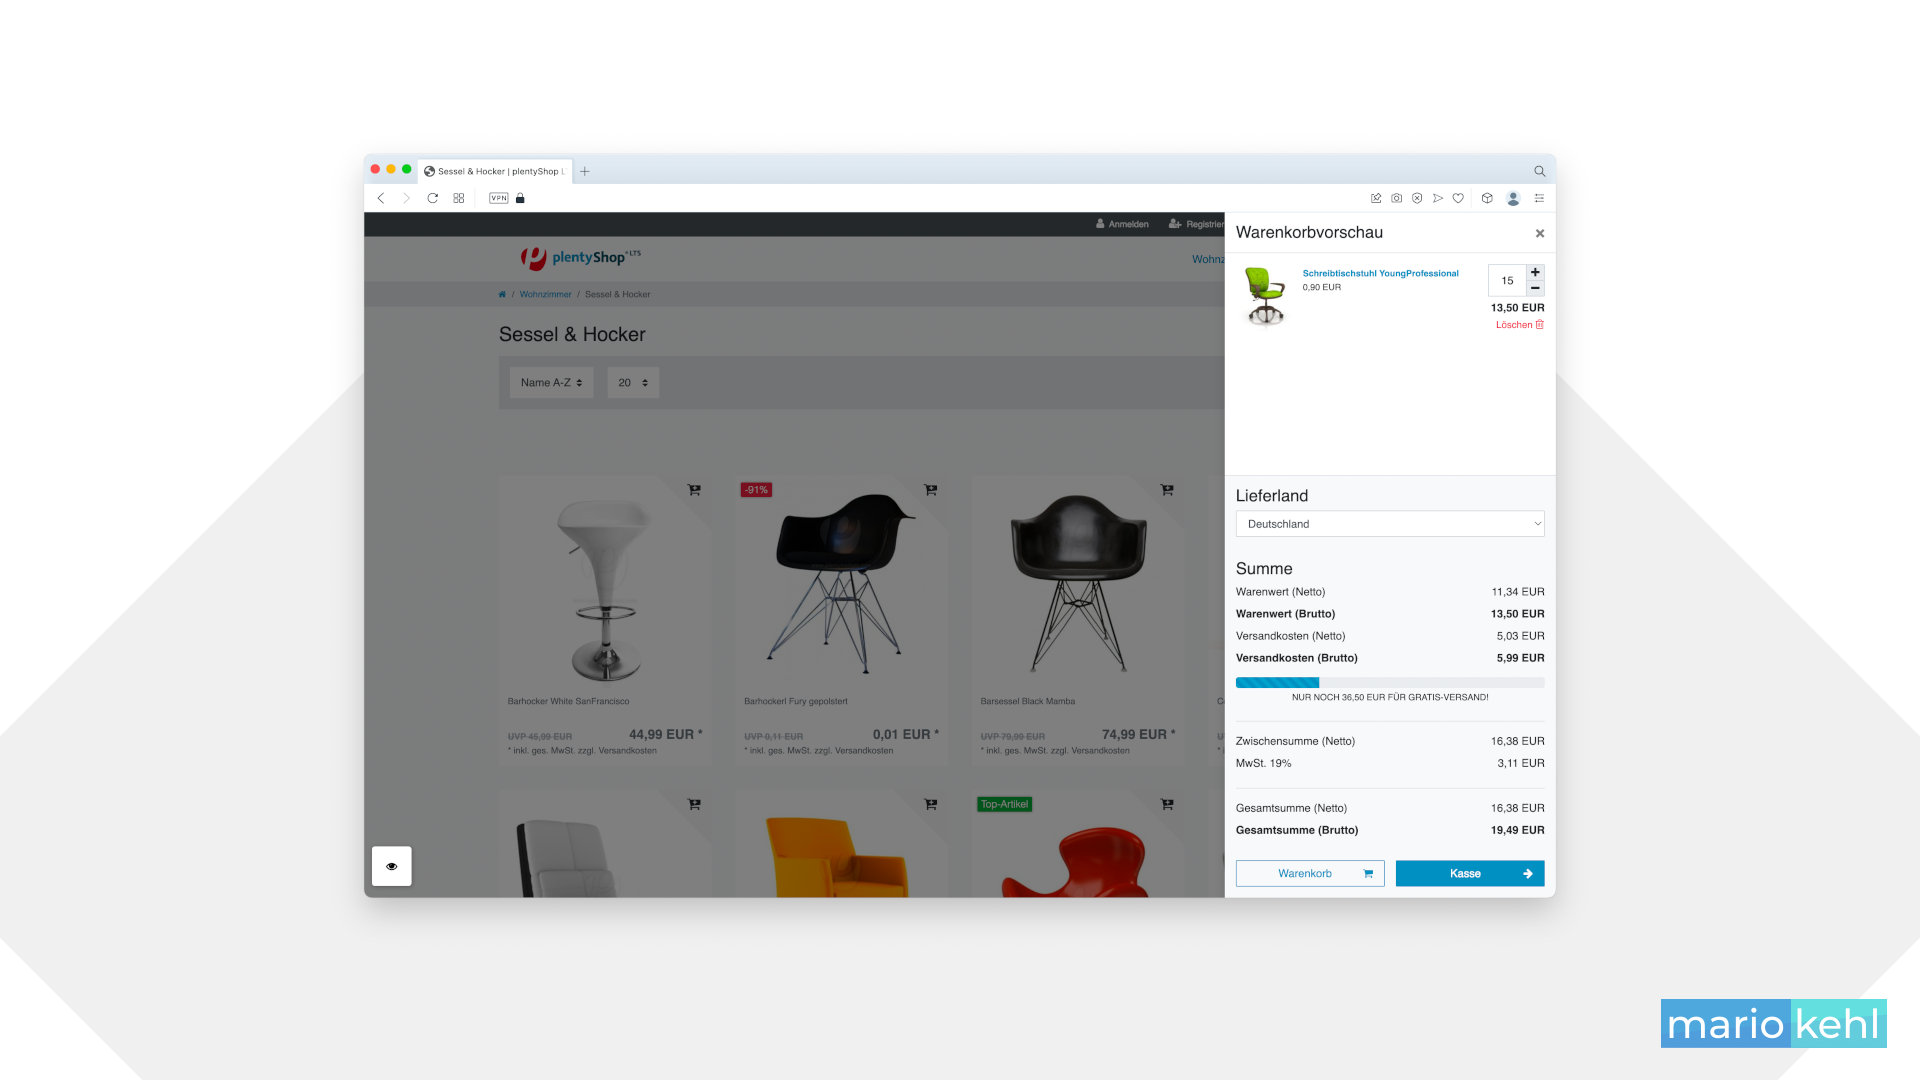
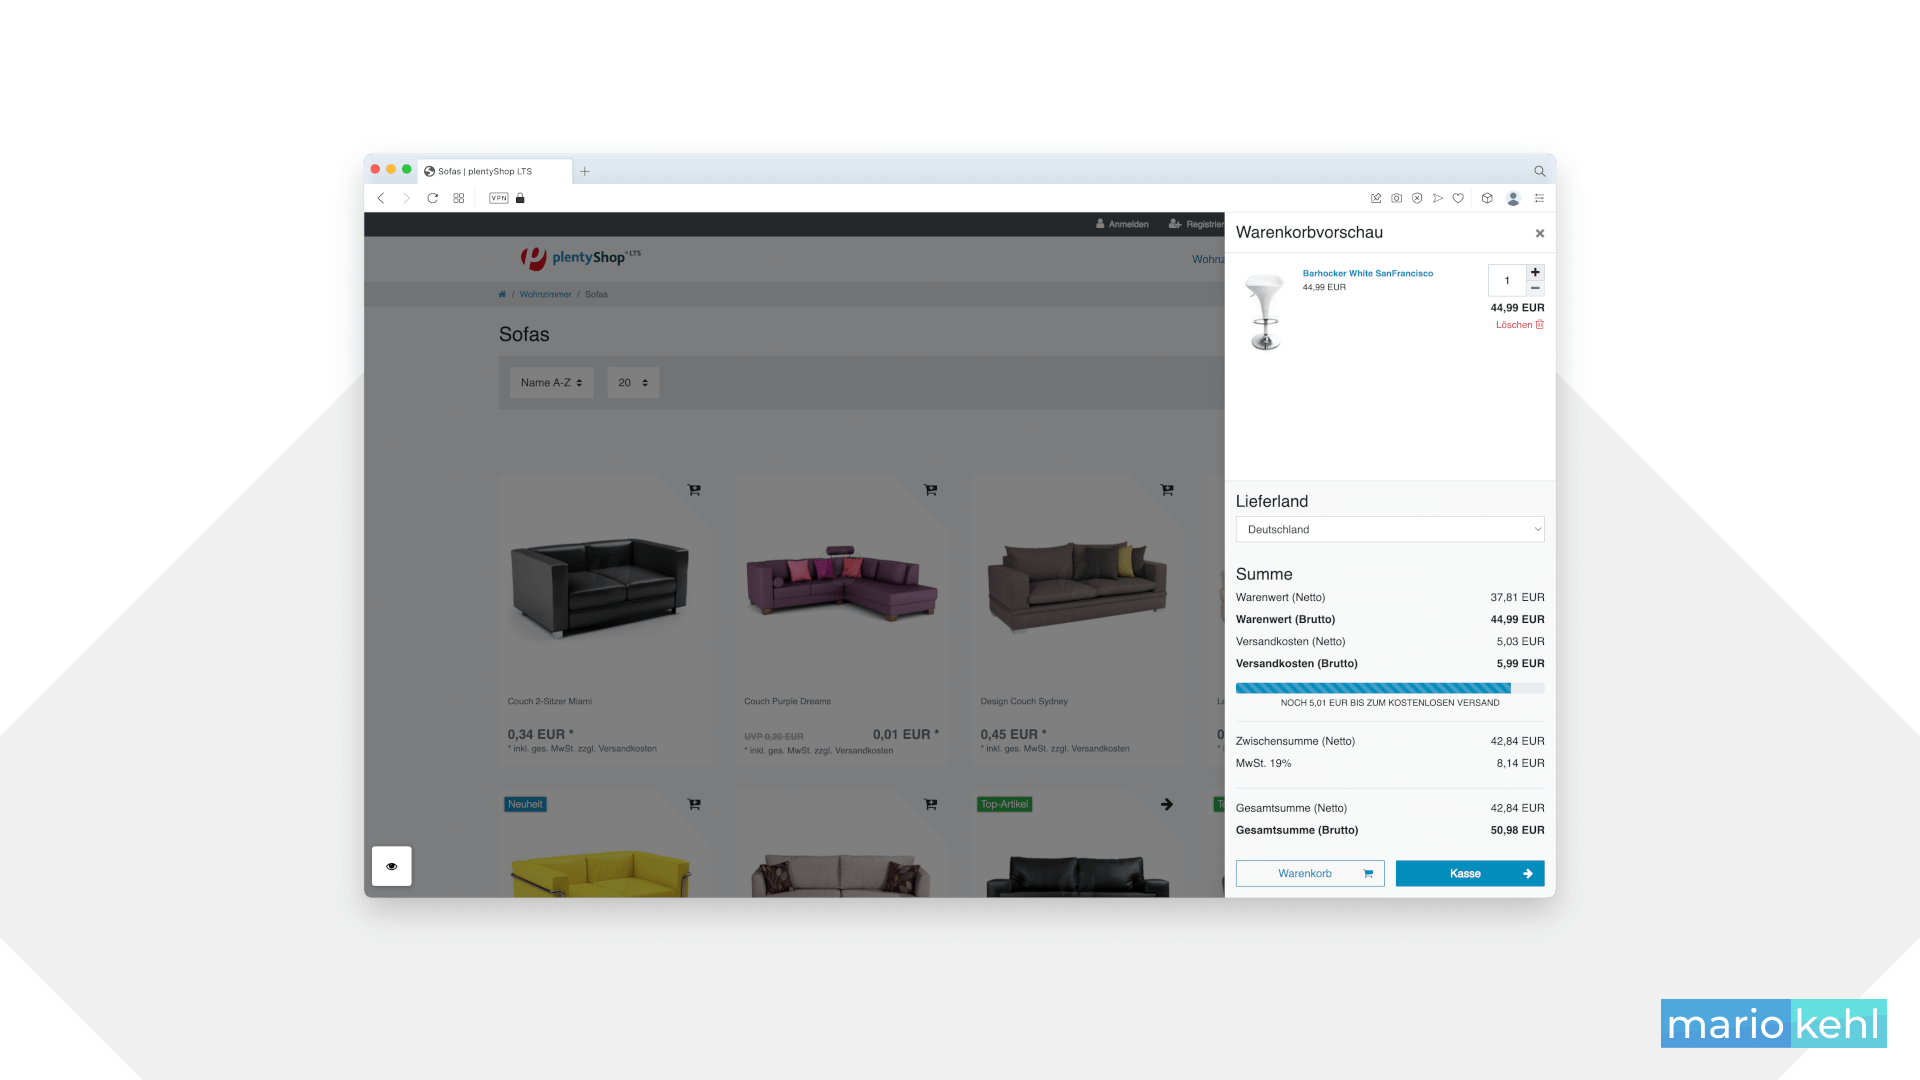
Bump version

diff --git a/meta/documents/changelog_de.md b/meta/documents/changelog_de.md
@@ -1,5 +1,19 @@
 # Versionshinweise für "Versandkostenfrei ab Warenwert erreichen"
 
+## v1.0.1 (09.01.2023)
+
+### Hinzugefügt
+- Du hast nun die Möglichkeit über die Plugin-Konfiguration einzelne Lieferländer vom kostenlosen Versand auszuschließen und die Fortschrittsanzeige somit zu verbergen
+
+### Geändert
+- Die Nachrichten der Fortschrittsanzeige wurden in den Bereich **CMS » Mehrsprachigkeit** verschoben, so dass diese übersetzt werden können. Desweiteren kannst du dort nun Emojis oder HTML-Code verwenden
+
+### Behoben
+- Gutscheine werden in der Fortschrittsanzeige korrekt berücksichtigt
+
+### TODO
+- Passe ggf. die Übersetzungen für die Sektion **Individualisierung** des Plugins FreeShippingGoal im Bereich **CMS » Mehrsprachigkeit** an
+
 ## v1.0.0 (18.10.2022)
 
 ### Hinzugefügt

diff --git a/meta/documents/changelog_en.md b/meta/documents/changelog_en.md
@@ -1,5 +1,19 @@
 # Release Notes for "No shipping costs for values over"
 
+## v1.0.1 (2023-01-09)
+
+### Added
+- You now have the option of excluding individual shipping countries from free shipping via the plugin configuration and thus hiding the progress bar
+
+### Changed
+- The messages of the progress bar have been moved to the **CMS » Multilingualism** menu so that they can be translated. Furthermore, you can now use emojis or HTML code there
+
+### Fixed
+- Coupons are correctly reflected in the progress bar
+
+### TODO
+- Customize the translations for the **Individualization** section of the FreeShippingGoal plugin in the **CMS » Multilingualism** menu
+
 ## v1.0.0 (2022-10-18)
 
 ### Added
